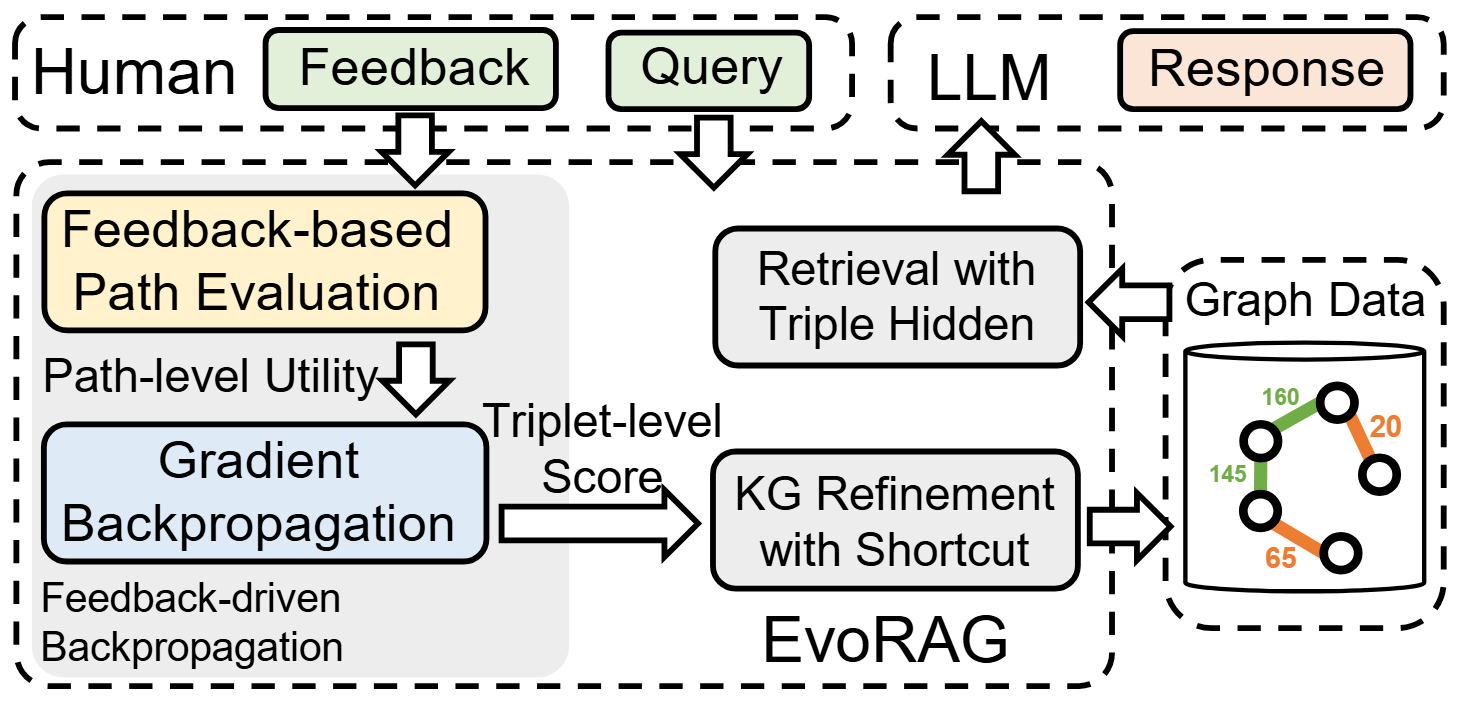
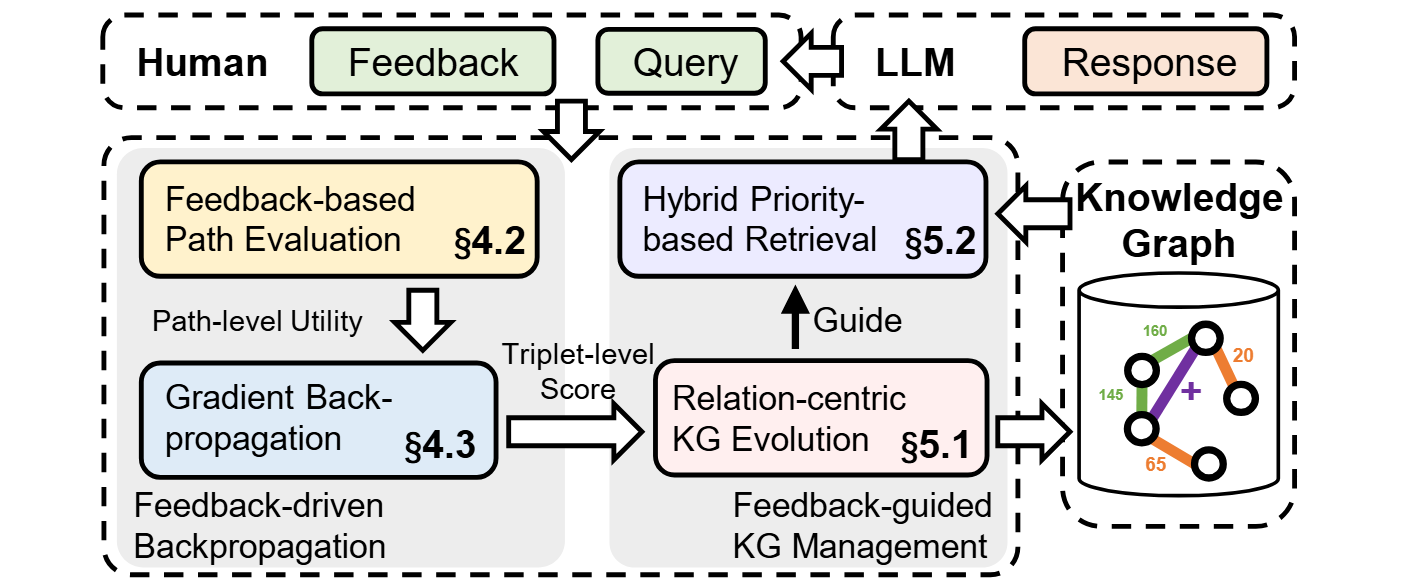
更新 README.md 文件

diff --git a/README.md b/README.md
@@ -10,15 +10,7 @@
 
 # EvoRAG: Evolving KG-based RAG with Human Feedback-driven Backpropagation
 
-![overview](resource/overview.png)
-
-<p align="center">
-  <!-- <img src="./resource/overview.png" width="600" alt="architecture"/> -->
-  <!-- <img src="./EvoRAG-FD13/resource/overview.png" width="600" alt="architecture"/> -->
-  <img src="![overview](resource/overview.png)" width="600" alt="architecture"/>
-  <!-- <img src="[./resource/overview.png](https://anonymous.4open.science/r/EvoRAG-FD13/resource/overview.png)" width="600" alt="architecture"/> -->
-</p>
-<p align="center">EvoRAG system overview</p>
+![EvoRAG system overview](resource/overview.png)
 
 Knowledge Graph-based Retrieval-Augmented Generation (KG-RAG) has emerged as a promising paradigm for enhancing LLM reasoning by retrieving multihop paths from knowledge graphs. However, existing KG-RAG frameworks often underperform in
 real-world scenarios because the pre-captured knowledge dependencies are not tailored to the downstream generation task or its evolving requirements. These frameworks struggle to adapt to user intent and lack mechanisms to filter low-contribution knowledge during generation. We observe that human feedback on generated responses offers effective supervision for improving KG quality, as it directly reflects user expectations and provides insights into the correctness and usefulness of the output. However, a key challenge lies in effectively linking response-level feedback to triplet-level updates in the knowledge graph.
